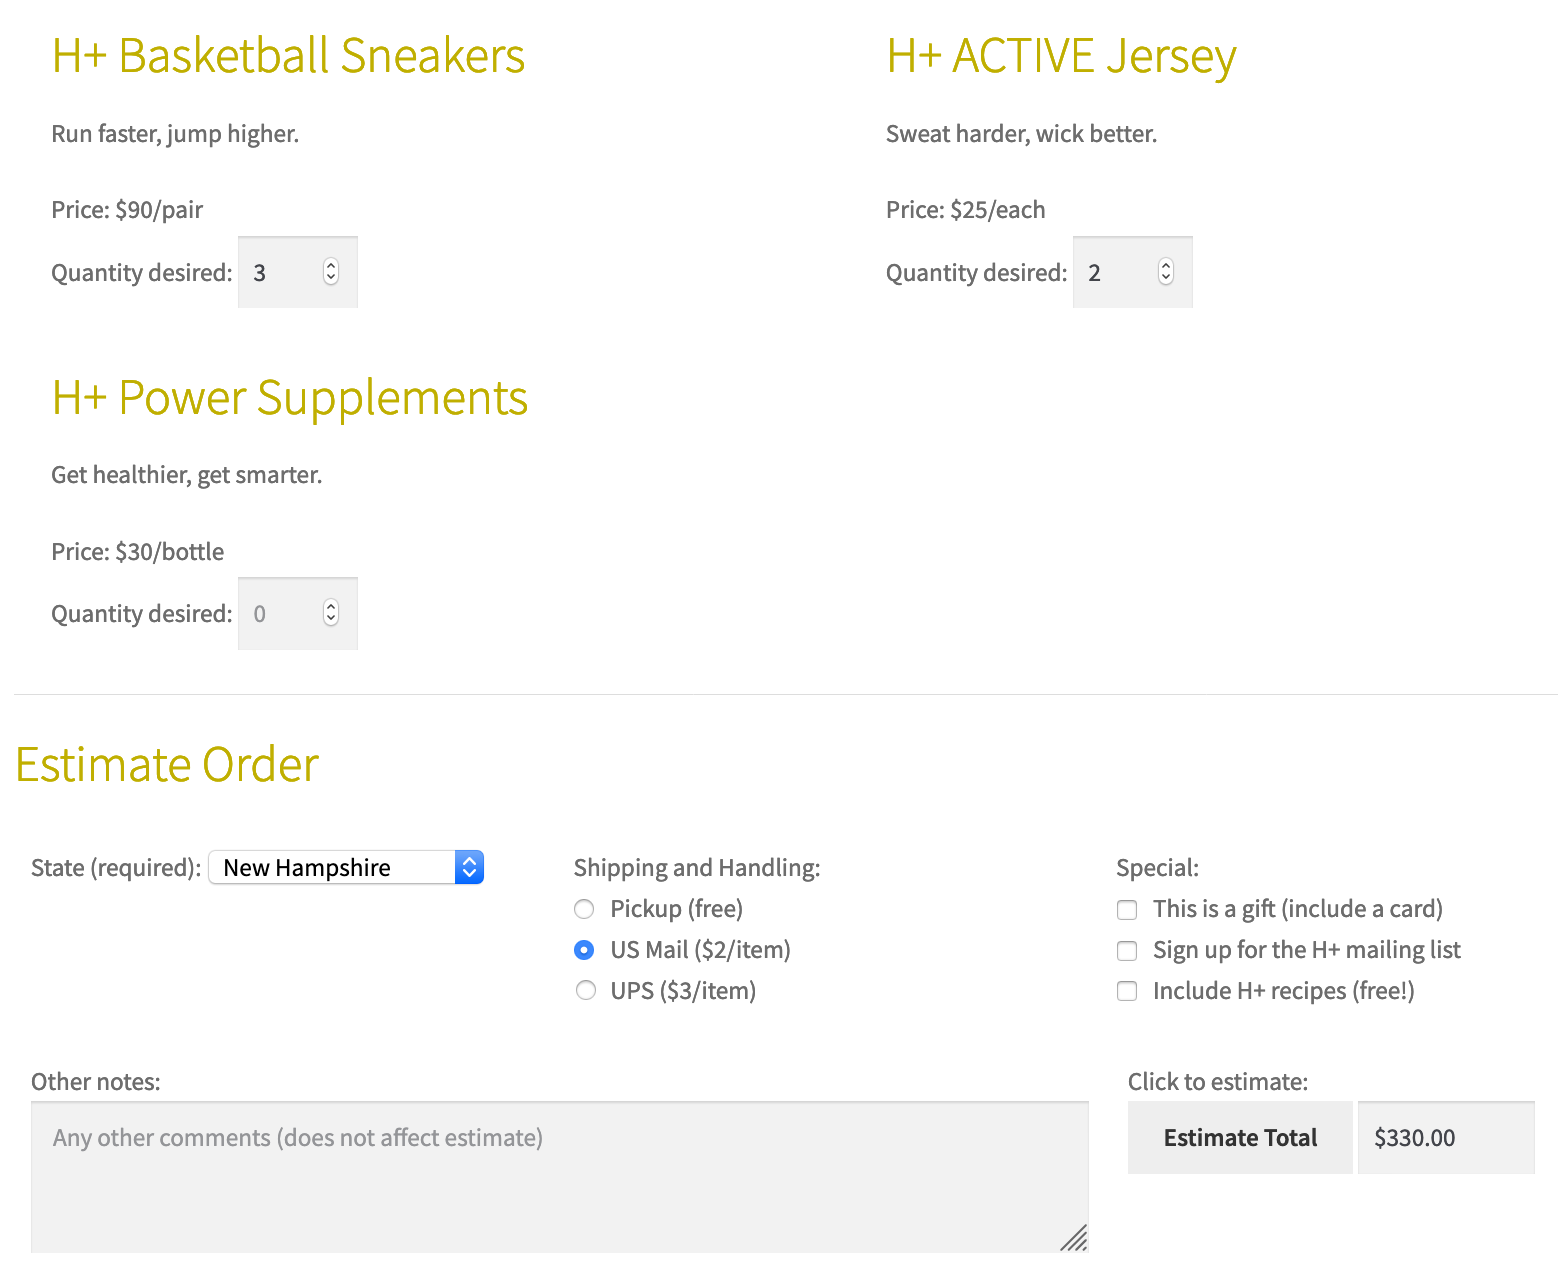
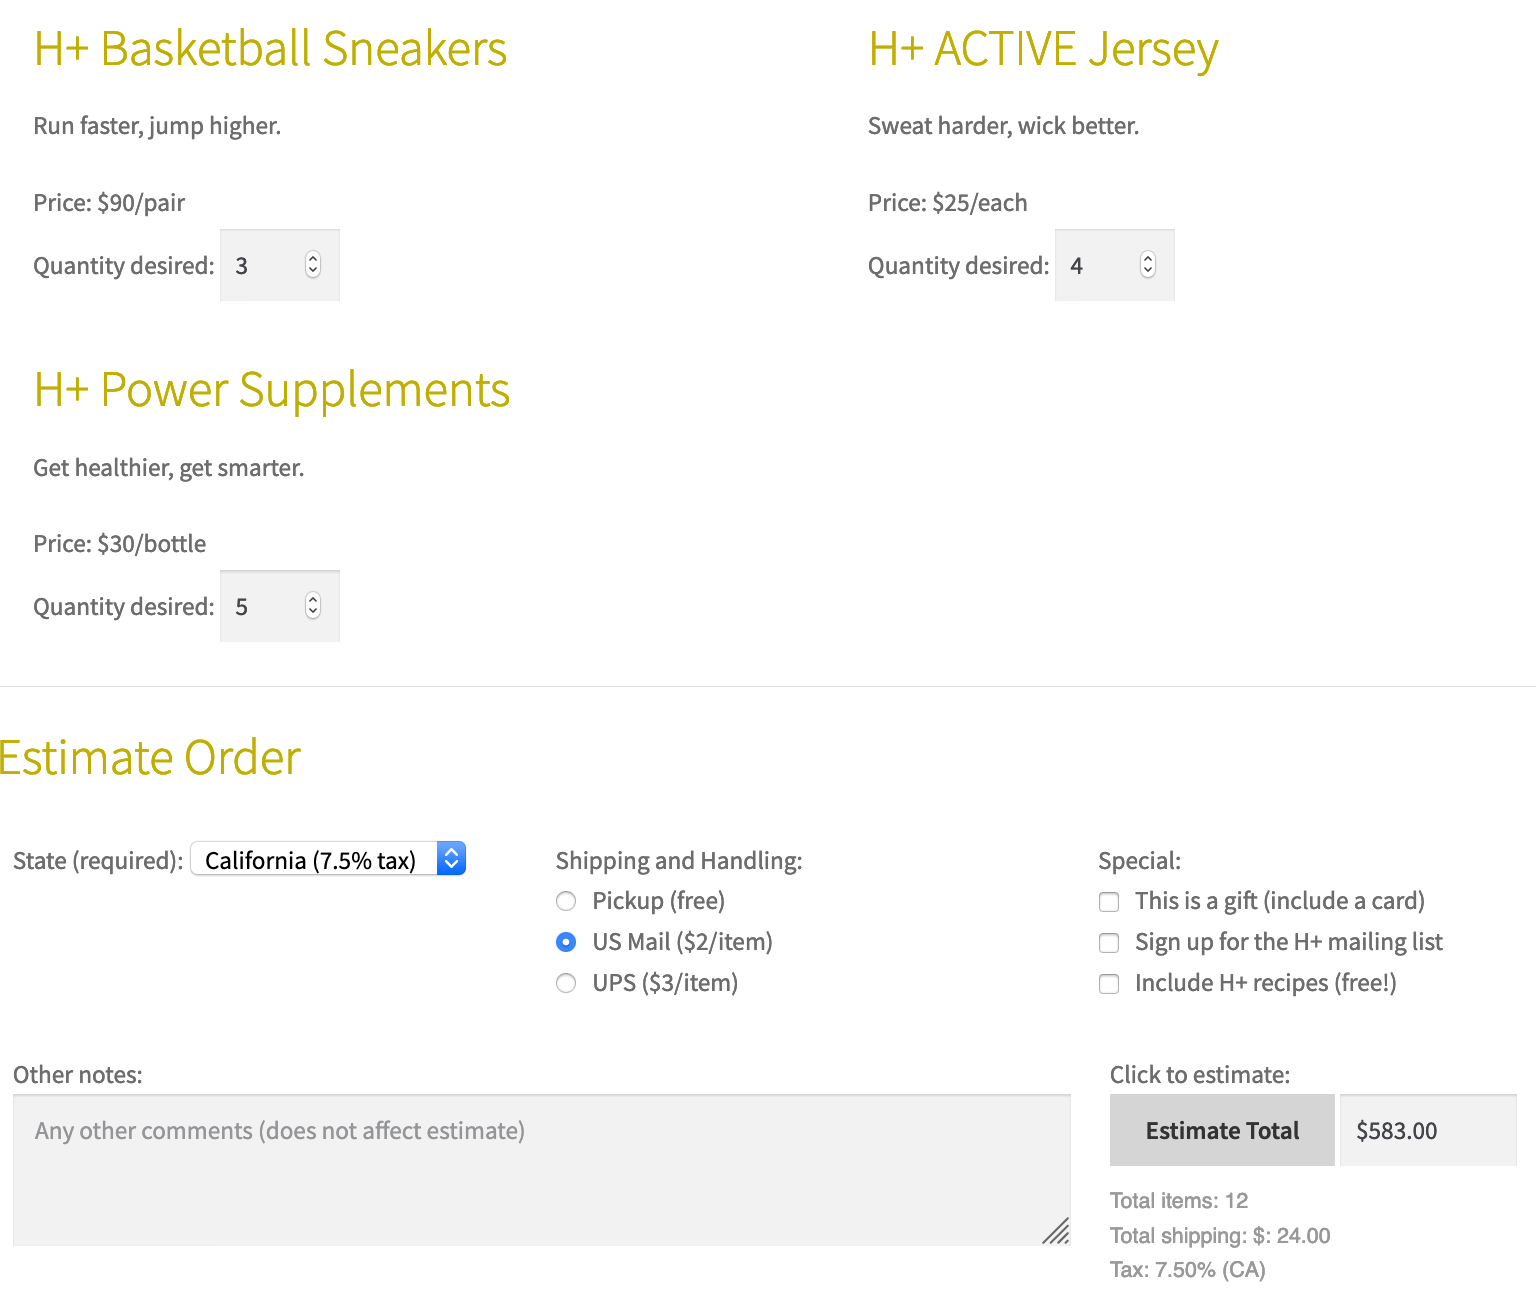
innerHTML to display total items, total shipping, and tax

diff --git a/script.js b/script.js
@@ -75,6 +75,15 @@
 
         document.getElementById("txt-estimate").value = estimate;
 
+        var results = document.getElementById("results")
+
+        results.innerHTML = "Total items: " + totalQty + "<br>";
+        results.innerHTML += "Total shipping: $: " + shippingCost.toFixed(2) + "<br>";
+        results.innerHTML += "Tax: " + ((taxFactor - 1) * 100).toFixed(2) + "% (" + shippingState + ")<br>";
+
+        // total items
+        // total shipping costs
+        // tax
       }
   });   
 })();
